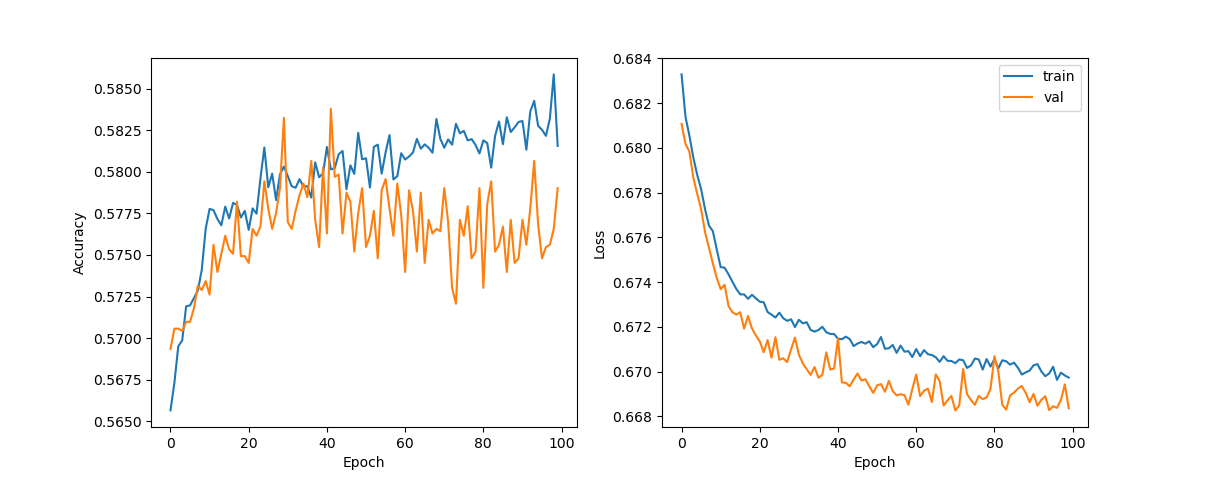
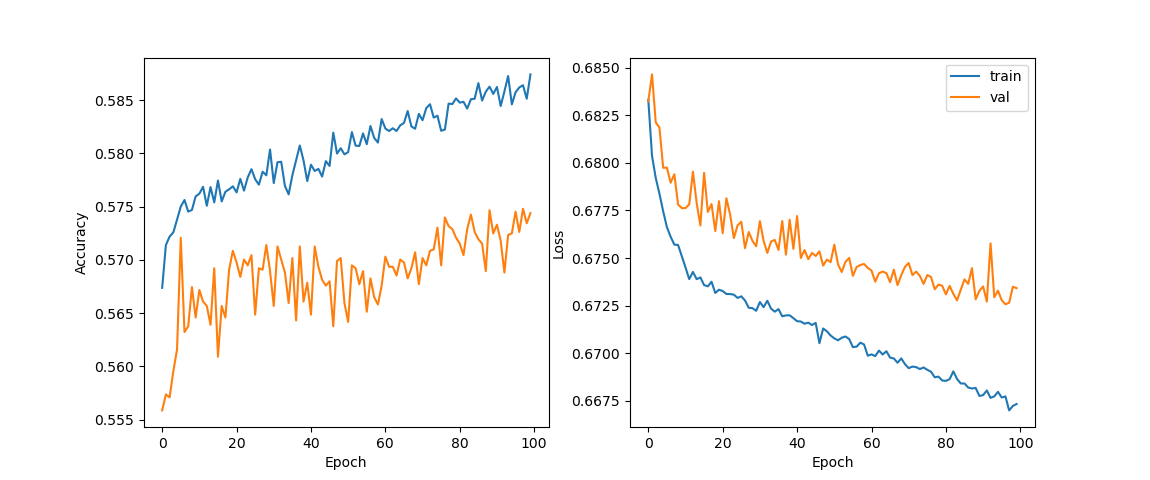
params

diff --git a/trn_NetLSTM.py b/trn_NetLSTM.py
@@ -32,8 +32,8 @@ print(y.shape)
 Xtrain, Xtest, ytrain, ytest = train_test_split(X, y, test_size=0.1)
 
 model = Sequential()
-model.add(Bidirectional(LSTM(5)))
-model.add(Dropout(0.2))
+model.add(Bidirectional(LSTM(10)))
+model.add(Dropout(0.4))
 model.add(Dense(1, activation='sigmoid'))
 model.compile(loss='binary_crossentropy', optimizer='adam', metrics=['accuracy'])
 history = model.fit(Xtrain, ytrain, validation_split=0.1, epochs=100, batch_size=64, verbose=2)

diff --git a/README.md b/README.md
@@ -16,14 +16,14 @@ Baseline bias is the natural bias in the data for a company to beat earnings.
 | Data Features | Model | Baseline Bias | Train Acc | Test Acc | Num Samples | Time Range | 
 | --- | --- | --- | --- | --- | --- | --- |
 | Compustat IQ Fundamentals Quarterly | 2 Layer NN | 57.50% | 66.91% | 71.11% | 56621 | 2010-2020 |
-| OHCLV 30 prior to earnings          | biLSTM     | 56.84% | 58.54% | 58.45% | 81549 | 2010-2020 |
+| OHCLV 30 prior to earnings          | biLSTM     | 56.84% | 58.89% | 58.34% | 81549 | 2010-2020 |
 ### Looking for collaborators / to-do list
 Feel free to reach out to me if you're interested in collaborating. I'm looking for people who are experienced 
 traders who might know how to develop trading strategies off of this. I'm also looking for people who have an
  interest in machine learning with finance applications.
 Future ideas:
 1. ~~Use LSTMs/RNNs to track OHLCLV + technical indicators before earnings (I've sorta tried this and it sorta works,
-need to clean it up before I commit).~~ Improve LSTM parameters and add technical indicators
+need to clean it up before I commit).~~ Improve LSTM hyperparameters and add technical indicators
 2. Use advanced NLP methods on 10Q/10K datasets
 3. Use reinforcement learning to develop trading strategies
 4. Use alternative data (Google trends) 
